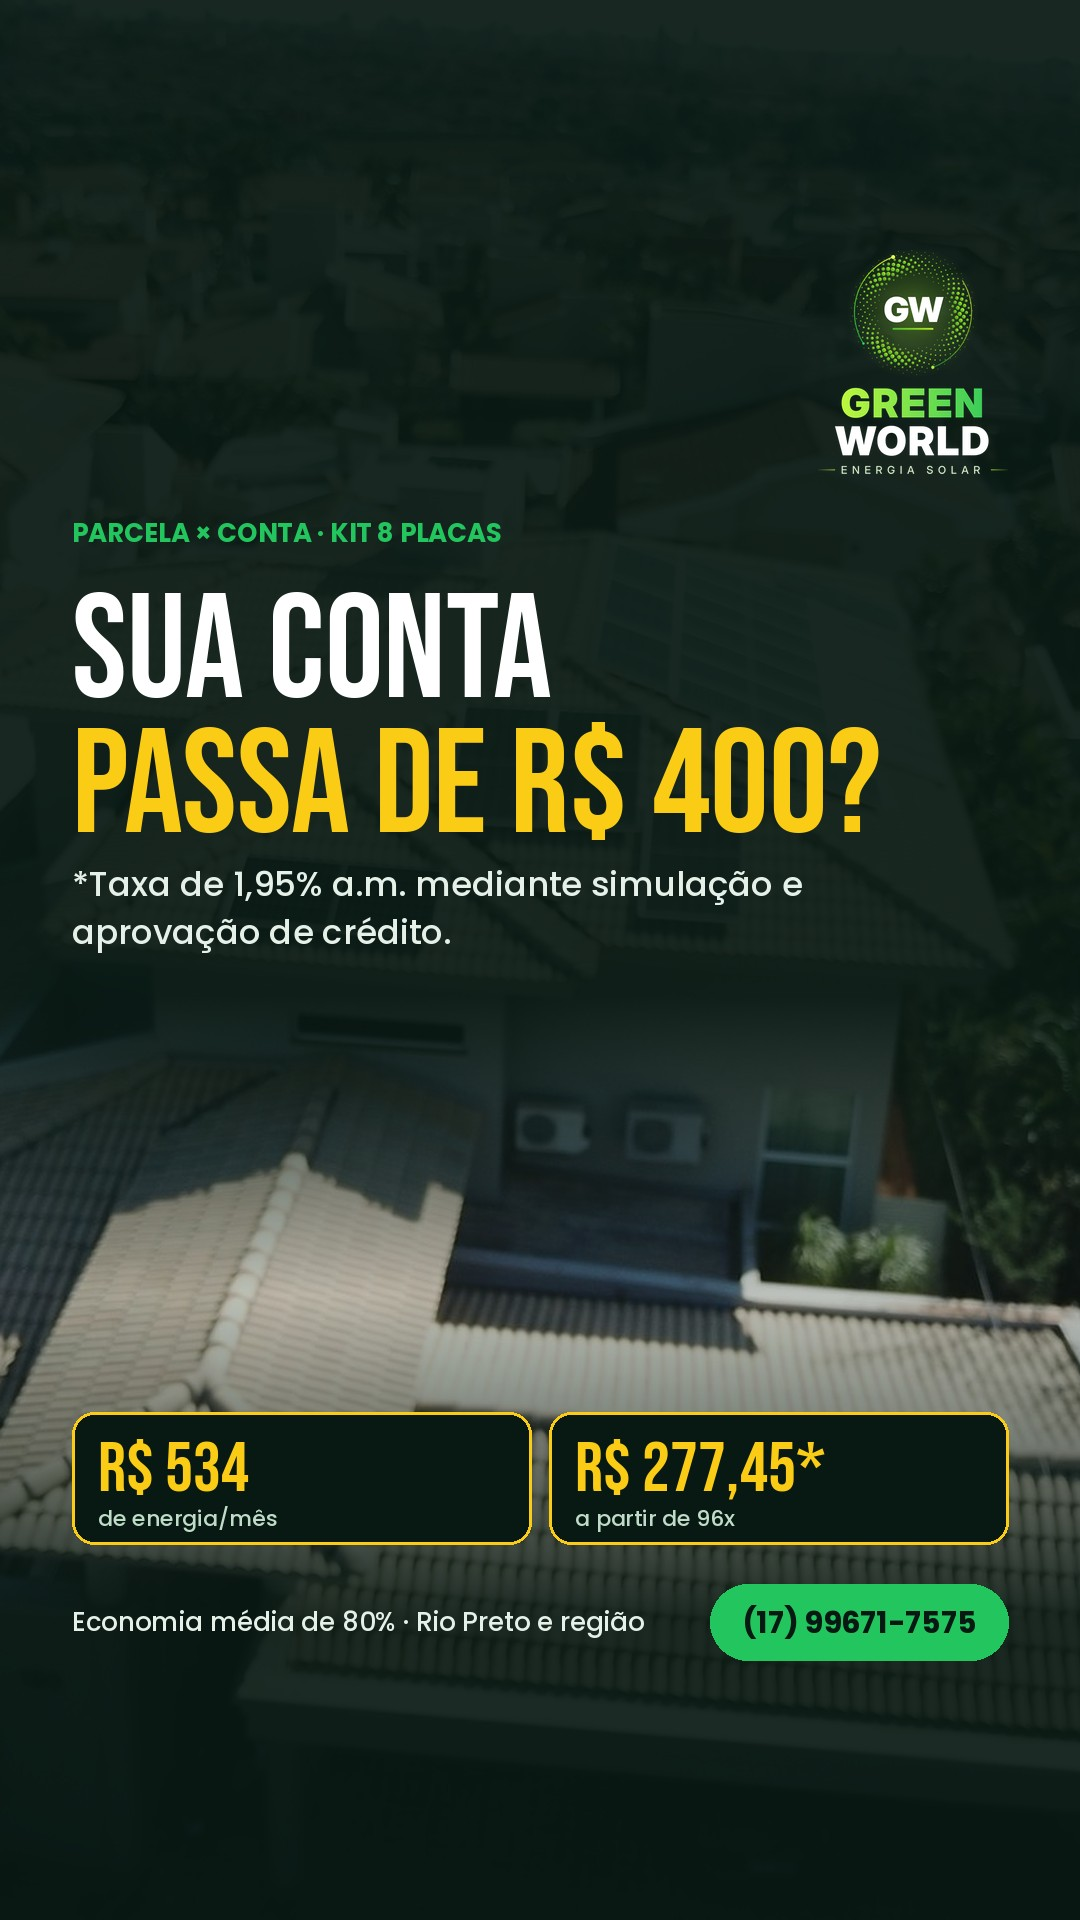
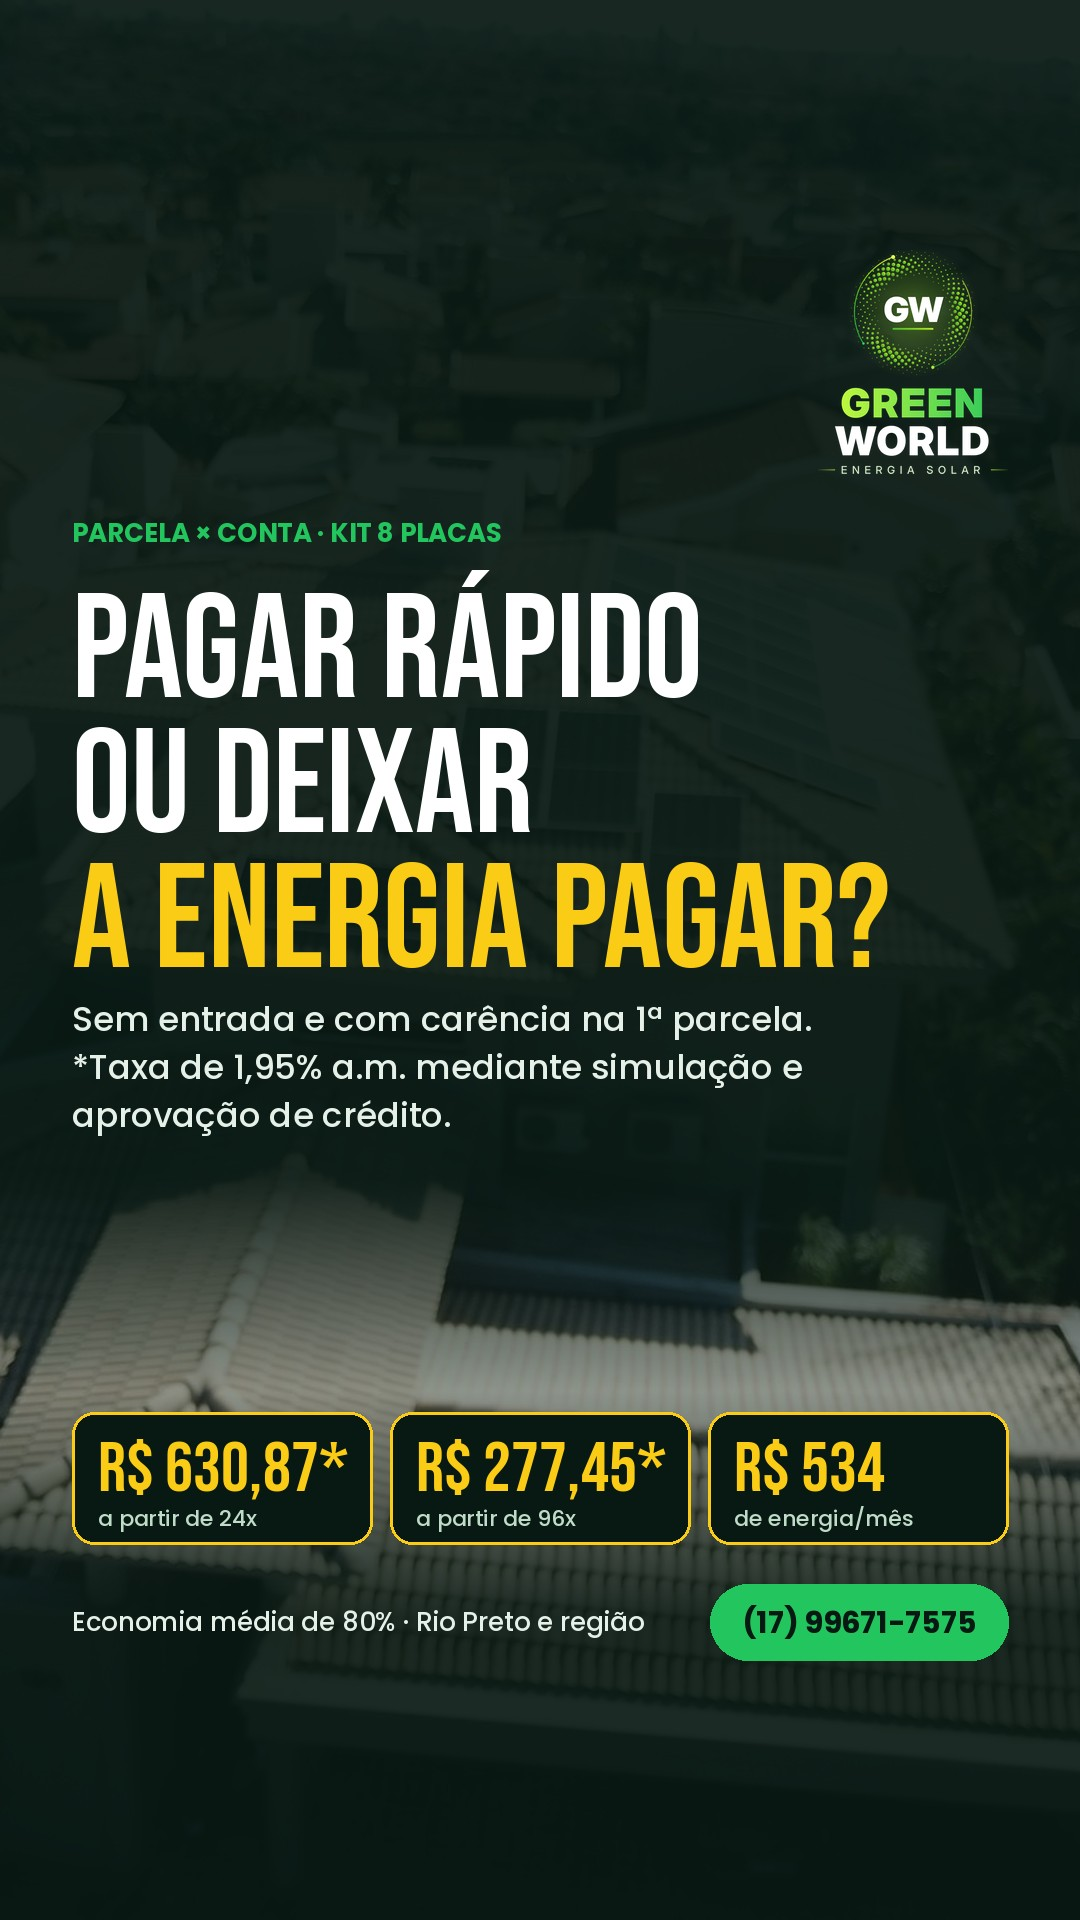
Posts 23/10 e 30/10 com ganchos novos; sem entrada + carência confirmados
Claude-Session: https://claude.ai/code/session_012imGtLabQxoP9hKrLETrrx

Changed region(s): [[0.0, 0.2812, 1.0, 0.8125]]

diff --git a/pautas.md b/pautas.md
@@ -61,8 +61,8 @@ O que está rodando agora (uso interno, NUNCA citar nomes nos posts):
 - Contexto: bandeira VERDE em outubro após 5 meses de amarela (amarela = +R$ 1,88 a cada 100 kWh; vermelha 1 = +R$ 4,46; vermelha 2 = +R$ 7,87 — fonte Aneel/Agência Brasil). A bandeira de NOVEMBRO será divulgada pela Aneel em 30/10/2026 (sexta). A CPFL Paulista teve reajuste aprovado pela Aneel em abril/2026 (fontes divergem no percentual — NÃO usar número).
 
 Ideias novas:
-- PARCELA × CONTA / Anúncio — "A bandeira ficou verde. E em novembro?" (para 30/10, dia em que a Aneel divulga a bandeira de novembro): "A bandeira volta e vai — quem gera a própria energia sente muito menos." Mostrar os valores oficiais da bandeira por 100 kWh + kit da campanha com "a partir de". Gancho de urgência real, sem inventar número.
-- PARCELA × CONTA / Carrossel — "Pagar rápido ou deixar a energia pagar a parcela?" (contraponto ao "10x sem juros" que está rodando): kit 8 placas — 24x a partir de R$ 630,87 OU 96x a partir de R$ 277,45, e a energia gerada vale ~R$ 534/mês. Mensagem: na parcela longa, a própria energia paga a parcela. Taxa de 1,95% a.m. mediante simulação e aprovação de crédito.
+- [USADA 30/10] PARCELA × CONTA / Anúncio — "A bandeira ficou verde. E em novembro?" (para 30/10, dia em que a Aneel divulga a bandeira de novembro): "A bandeira volta e vai — quem gera a própria energia sente muito menos." Mostrar os valores oficiais da bandeira por 100 kWh + kit da campanha com "a partir de". Gancho de urgência real, sem inventar número.
+- [USADA 23/10] PARCELA × CONTA / Carrossel — "Pagar rápido ou deixar a energia pagar a parcela?" (contraponto ao "10x sem juros" que está rodando): kit 8 placas — 24x a partir de R$ 630,87 OU 96x a partir de R$ 277,45, e a energia gerada vale ~R$ 534/mês. Mensagem: na parcela longa, a própria energia paga a parcela. Taxa de 1,95% a.m. mediante simulação e aprovação de crédito.
 - REEL (Maicon segurando uma conta CPFL, rosto/endereço cobertos) — "Sua conta pode estar mais alta do que você imagina: 3 coisas para olhar em 30 segundos": consumo em kWh, bandeira do mês, taxa mínima. Fecha com "Manda a foto da conta no WhatsApp que a gente faz a simulação gratuita". Formato educativo que está sendo anunciado por vários perfis.
-- MITO OU VERDADE? — "Energia solar sem entrada existe?" — SÓ USAR DEPOIS DE O MAICON CONFIRMAR com o banco/financeira se a GW consegue 100% financiado e/ou carência na 1ª parcela. Se sim: "Verdade: dá para financiar o sistema e começar a economizar antes de pesar no bolso (mediante simulação e aprovação de crédito)". Se não, não usar.
+- MITO OU VERDADE? — "Energia solar sem entrada existe?" — CONFIRMADO PELO MAICON EM 20/10 (sem entrada + carência na 1ª parcela; não citar nº de meses). Usar como VERDADE. [Texto original: só usar depois de o Maicon confirmar com o banco/financeira se a GW consegue 100% financiado e/ou carência na 1ª parcela. Se sim:] "Verdade: dá para financiar o sistema e começar a economizar antes de pesar no bolso (mediante simulação e aprovação de crédito)". Se não, não usar.
 - DATA ESPECIAL (para novembro, esquenta de Black Friday 27/11) — "Black Friday da conta de luz: 80% de desconto todo mês, não só em um dia" (economia média de 80%). Série de 3 posts em novembro + anúncio com o kit da campanha.

diff --git a/INSTRUCOES.md b/INSTRUCOES.md
@@ -43,6 +43,7 @@ Abrir as duas imagens geradas e conferir: texto legível, nada cortado, logo vis
 Ferramenta de criação: Claude Design (o Maicon não usa mais Canva); Reels são editados pelo Claude a partir dos vídeos que ele mandar.
 
 ## Regras fixas (do Maicon)
+- SEM ENTRADA + CARÊNCIA na 1ª parcela: confirmado pelo Maicon em 20/10. Pode usar nos posts de oferta, sempre com "mediante simulação e aprovação de crédito"; não citar quantos meses de carência (não informado).
 - Escrever "simulação gratuita" (nunca "simulação grátis"/"simule grátis") — pedido do Maicon em 15/10.
 - PÚBLICO-ALVO (decisão do Maicon em 13/10): quem paga ACIMA DE R$ 400 de conta de luz, em Rio Preto e região. Ganchos e números devem falar com esse público ("Sua conta passa de R$ 400?", kits de 8 placas para cima). Evitar conteúdo que atraia conta baixa.
 - Economia prometida: "média de 80%" na conta (nunca "até 95%").
